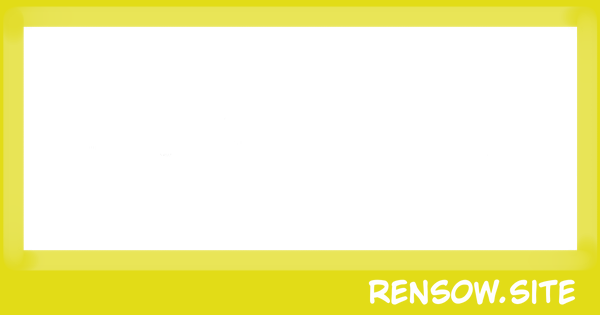
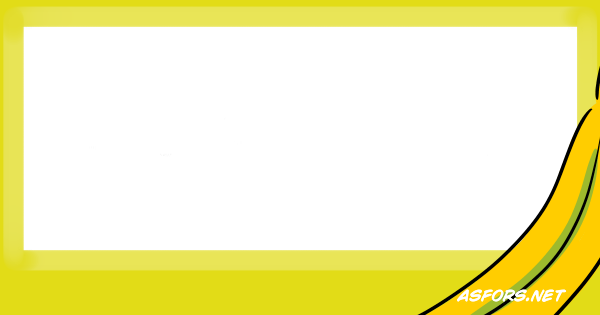
Update etc...

Changed region(s): [[0.6, 0.2, 1.0, 1.0]]

diff --git a/app/controllers/create_image_controller.rb b/app/controllers/create_image_controller.rb
@@ -5,6 +5,13 @@ class CreateImageController < ApplicationController
         question_text = params[:asfor][:question]
         answer_text = params[:asfor][:answer]
 
+        if question_text.blank? || question_text.size > 12 ||
+            answer_text.blank? || answer_text.size > 12
+            # 入力データ異常デス
+            render partial: 'ajax_error_partial'
+            return
+        end
+
         @asfor = nil
         if Asfor.exists?(question: question_text, answer: answer_text)
             logger.debug("EXISTS")
@@ -41,7 +48,7 @@ class CreateImageController < ApplicationController
             end
             
             image_file = SecureRandom.urlsafe_base64(8)
-            new_img.write("#{Rails.root}/public/image/rensow/#{image_file}.jpg")
+            new_img.write("#{Rails.root}/public/image/asfors/#{image_file}.png")
             new_img.destroy!
 
             # DBレコード生成
@@ -49,9 +56,12 @@ class CreateImageController < ApplicationController
             @asfor.question = question_text
             @asfor.answer = answer_text
             @asfor.url_key = image_file
-            @asfor.image = "/image/rensow/" + image_file + ".jpg"
-            # TODO: エラーハンドリング入れようぜ
-            @asfor.save
+            @asfor.image = "/image/asfors/" + image_file + ".png"
+            unless @asfor.save
+                # エラーコンテンツを返答
+                render partial: 'ajax_error_partial'
+                return
+            end
         end
         
         # シェア用のURLと生成した画像ファイル名を返答する

diff --git a/config/initializers/meta_tags.rb b/config/initializers/meta_tags.rb
@@ -1,0 +1,40 @@
+# frozen_string_literal: true
+
+# Use this setup block to configure all options available in MetaTags.
+MetaTags.configure do |config|
+  # How many characters should the title meta tag have at most. Default is 70.
+  # Set to nil or 0 to remove limits.
+  # config.title_limit = 70
+
+  # When true, site title will be truncated instead of title. Default is false.
+  # config.truncate_site_title_first = false
+
+  # Maximum length of the page description. Default is 300.
+  # Set to nil or 0 to remove limits.
+  # config.description_limit = 300
+
+  # Maximum length of the keywords meta tag. Default is 255.
+  # config.keywords_limit = 255
+
+  # Default separator for keywords meta tag (used when an Array passed with
+  # the list of keywords). Default is ", ".
+  # config.keywords_separator = ', '
+
+  # When true, keywords will be converted to lowercase, otherwise they will
+  # appear on the page as is. Default is true.
+  # config.keywords_lowercase = true
+
+  # When true, the output will not include new line characters between meta tags.
+  # Default is false.
+  # config.minify_output = false
+
+  # When false, generated meta tags will be self-closing (<meta ... />) instead
+  # of open (`<meta ...>`). Default is true.
+  # config.open_meta_tags = true
+
+  # List of additional meta tags that should use "property" attribute instead
+  # of "name" attribute in <meta> tags.
+  # config.property_tags.push(
+  #   'x-hearthstone:deck',
+  # )
+end

diff --git a/app/helpers/application_helper.rb b/app/helpers/application_helper.rb
@@ -1,7 +1,25 @@
 module ApplicationHelper
-    def page_title
-        title = "RENSOW -連想ゲーム-"
-        title = @page_title + " | " + title if @page_title
-        title
+    def default_meta_tags
+        {
+            site: 'Asfors -連想ゲーム-',
+            reverse: true,
+            charset: 'utf-8',
+            description: '連想ゲームをお楽しみください',
+            icon: image_url("/favicon.ico"),
+            canonical: request.original_url,
+            separator: '|',
+            og: {
+                site_name: 'Asfors -連想ゲーム-',
+                description: '連想ゲームをお楽しみください',
+                type: 'website',
+                url: request.original_url,
+                image: image_url('/image/ogp.png'),
+                locale: 'ja_JP',
+            },
+            twitter: {
+                card: 'summary',
+                site: '@takahiro310',
+            }
+        }
     end
 end

diff --git a/db/schema.rb b/db/schema.rb
@@ -10,7 +10,7 @@
 #
 # It's strongly recommended that you check this file into your version control system.
 
-ActiveRecord::Schema.define(version: 2018_11_26_125530) do
+ActiveRecord::Schema.define(version: 2018_11_29_005944) do
 
   create_table "asfors", options: "ENGINE=InnoDB DEFAULT CHARSET=utf8", force: :cascade do |t|
     t.string "question"
@@ -19,6 +19,9 @@ ActiveRecord::Schema.define(version: 2018_11_26_125530) do
     t.datetime "updated_at", null: false
     t.string "url_key"
     t.string "image"
+    t.index ["question", "answer"], name: "unique_provider_uid", unique: true
+    t.index ["question"], name: "index_asfors_on_question"
+    t.index ["url_key"], name: "index_asfors_on_url_key"
   end
 
 end

diff --git a/db/migrate/20181129005944_add_index_to_asfor.rb b/db/migrate/20181129005944_add_index_to_asfor.rb
@@ -1,0 +1,7 @@
+class AddIndexToAsfor < ActiveRecord::Migration[5.2]
+  def change
+    add_index :asfors, :question
+    add_index :asfors, :url_key
+    add_index :asfors, [:question, :answer], :name => 'unique_provider_uid', :unique => true
+  end
+end
